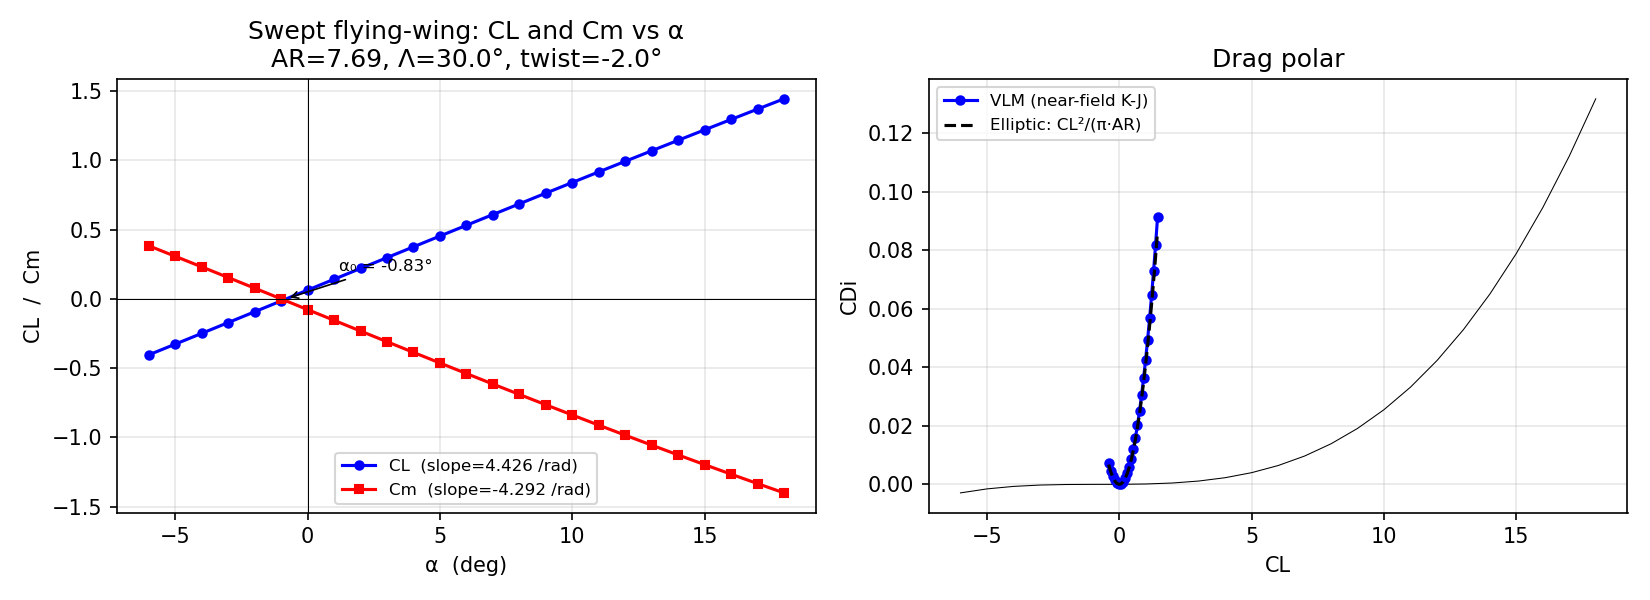
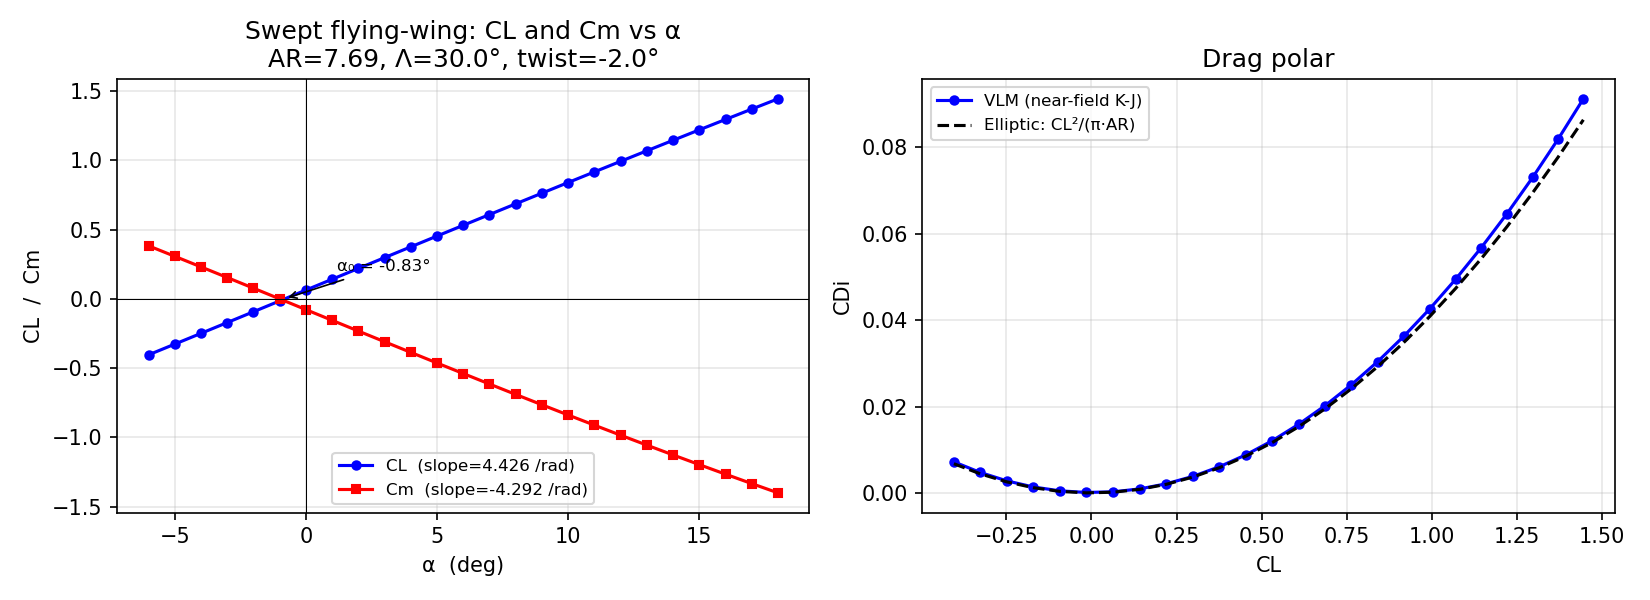
Fix drag polar plot: remove spurious ax.plot(alphas, CL*CDi) line
That line drew CL·CDi vs alpha (range -6 to 18) on the same axes as the
drag polar (CL vs CDi, range -0.4 to 1.5), forcing matplotlib to rescale
the x-axis to [-6, 18] and compressing the actual polar curves into a
tiny strip — making the VLM result look wildly different from the elliptic
reference.  After removal the two parabolas overlap closely (~3.5% above
elliptic, as expected for a non-elliptic planform).

diff --git a/examples/02_swept_flying_wing_vlm/02_swept_flying_wing_vlm.py b/examples/02_swept_flying_wing_vlm/02_swept_flying_wing_vlm.py
@@ -106,12 +106,9 @@ ax.annotate(f"α₀ = {alpha0_deg:.2f}°",
             xy=(alpha0_deg, 0), xytext=(alpha0_deg + 2, 0.2),
             fontsize=8, arrowprops=dict(arrowstyle="->", lw=0.8))
 
-ax = axes[1]
-ax.plot(alphas, np.array(CLs) * np.array(CDis), "k-", lw=0.5, label="")
 CDi_arr = np.array(CDis)
 ax2 = axes[1]
 ax2.plot(CL_arr, CDi_arr, "b-o", ms=4, label="VLM (near-field K-J)")
-# Elliptic reference
 cdi_elliptic = CL_arr**2 / (np.pi * AR_plan)
 ax2.plot(CL_arr, cdi_elliptic, "k--", lw=1.5,
          label=f"Elliptic: CL²/(π·AR)")
